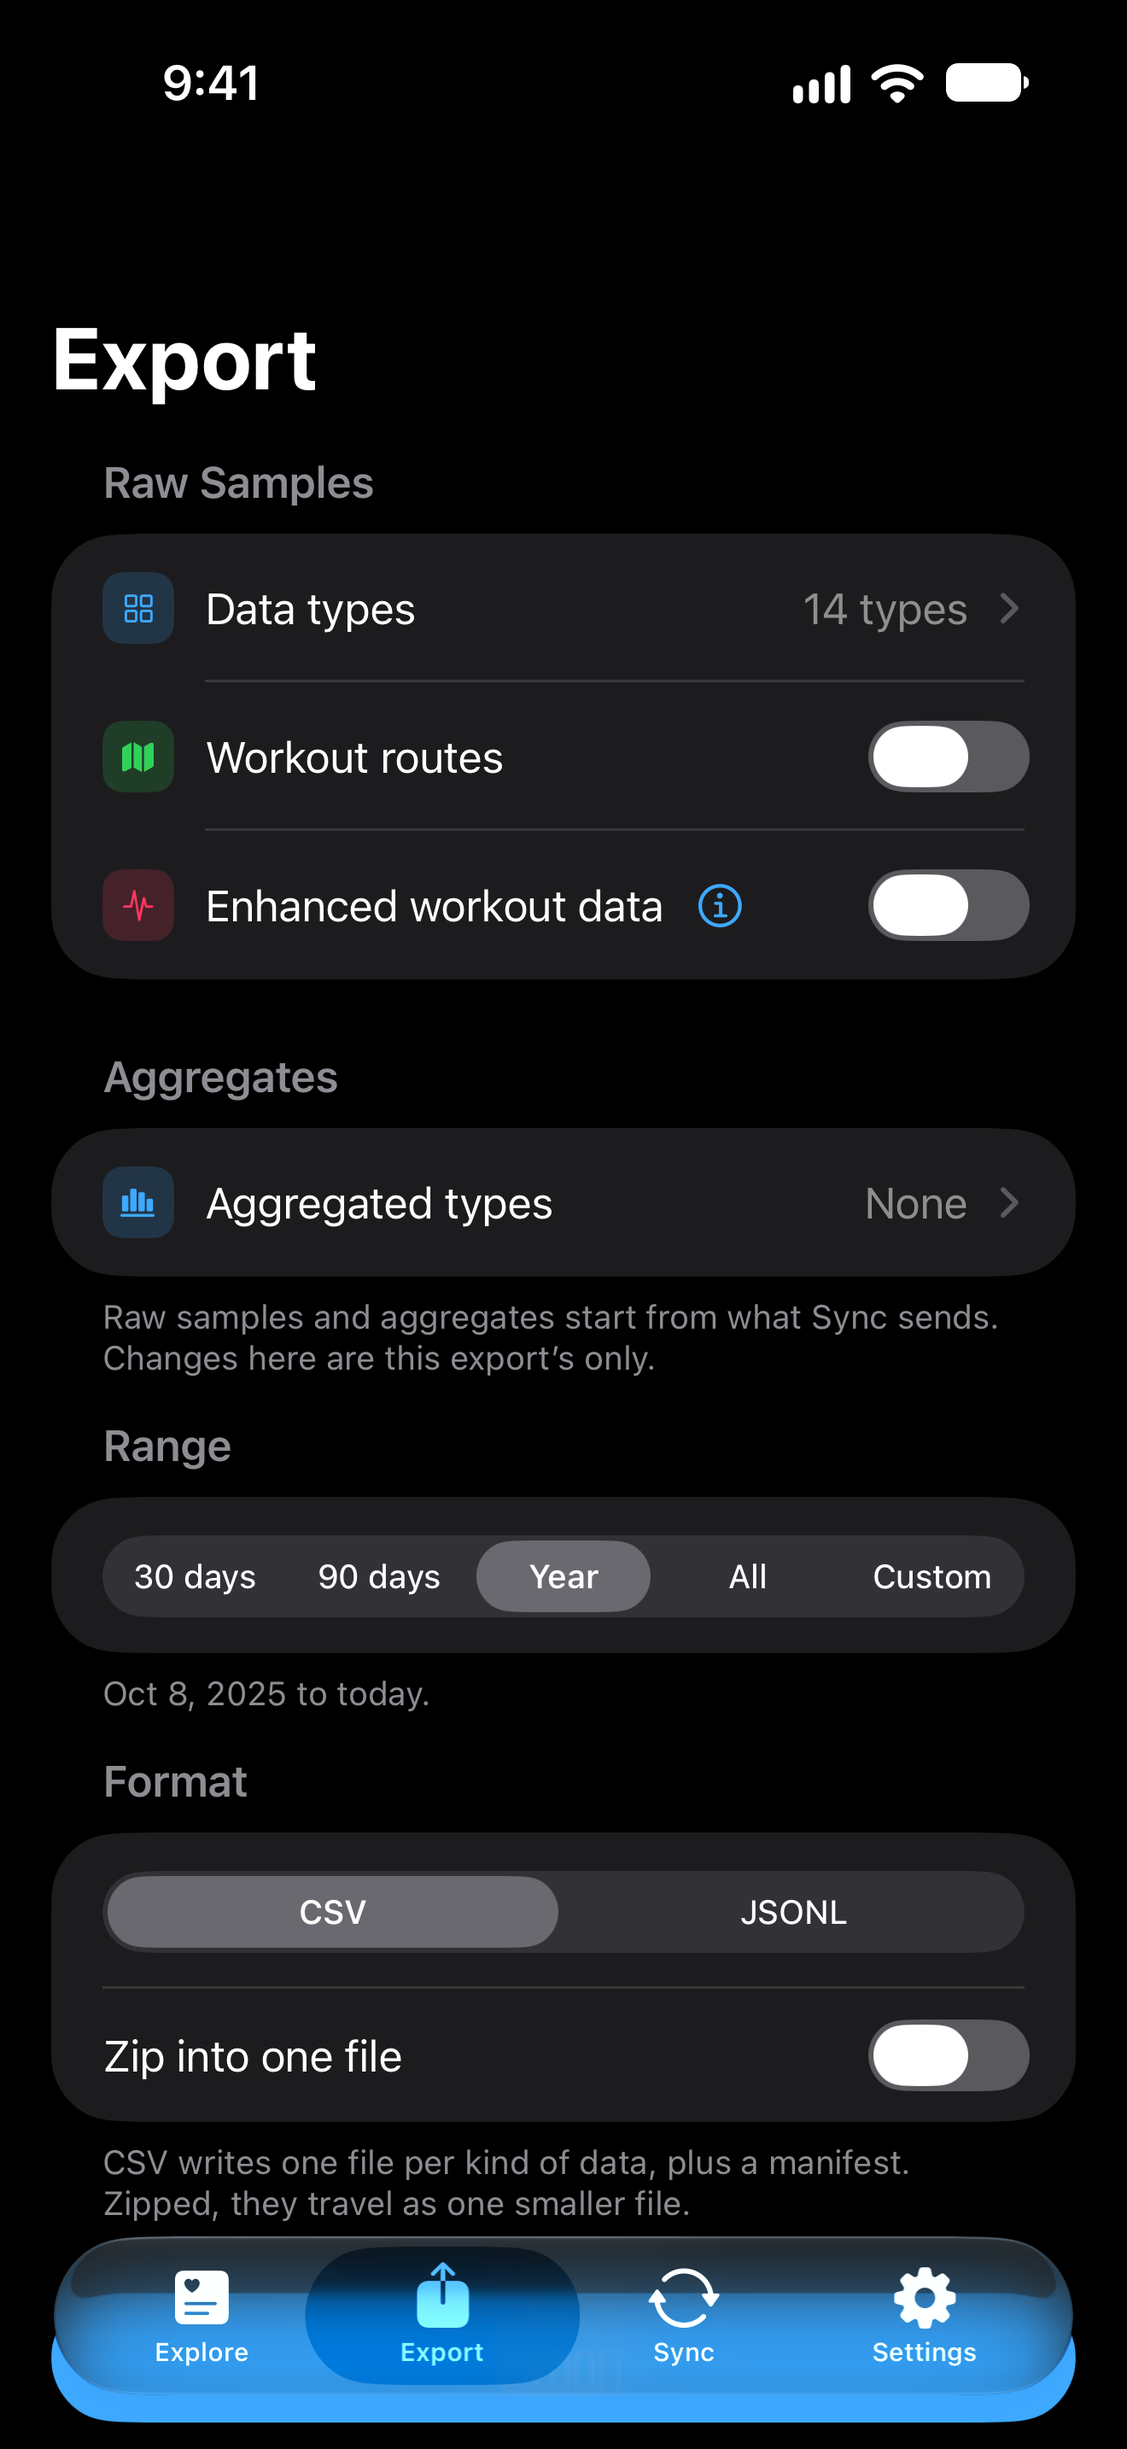
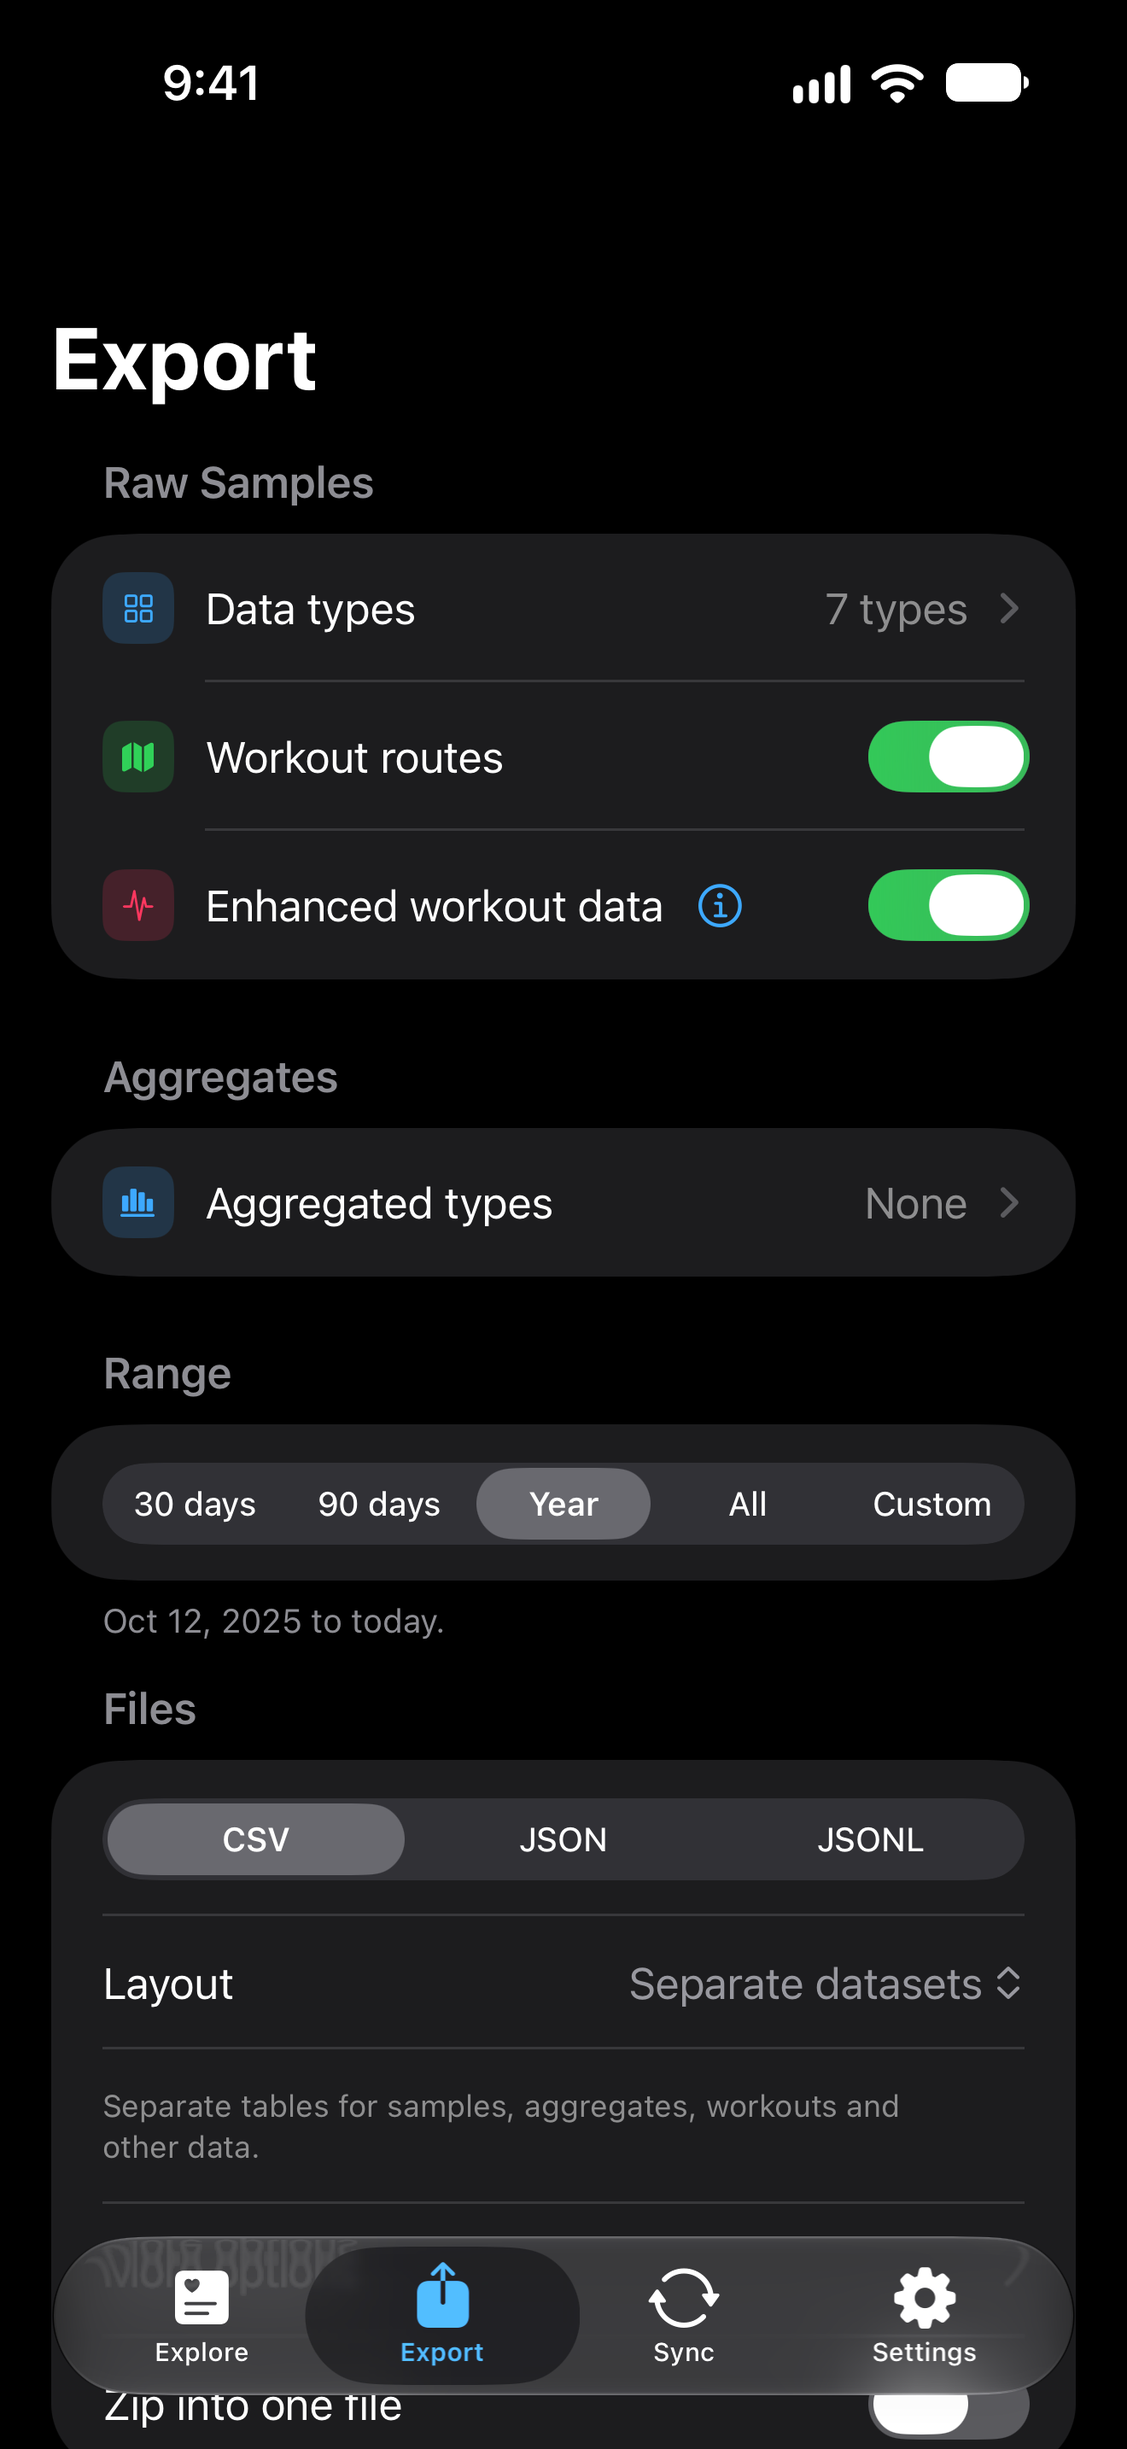
docs: align public messaging around self-managed health data
Lead GitHub with a self-managed database while retaining hosted accounts as an alternative. Reuse the current Export capture, document JSON and CSV layouts, and align AI, scope and privacy summaries.

Changed region(s): [[0.0311, 0.5275, 0.9629, 1.0], [0.7765, 0.2793, 0.9318, 0.4034]]

diff --git a/site/src/lib/docs.ts b/site/src/lib/docs.ts
@@ -86,7 +86,7 @@ export const DOCS: DocEntry[] = [
     title: "Bulk export",
     repoPath: "docs/export.md",
     description:
-      "The product API's streaming export endpoint, CSV for a spreadsheet or JSONL for a notebook, and the puls-export command-line client for it.",
+      "Export CSV, JSON or JSONL from the app without a database, with custom summaries and CSV layouts; or stream CSV or JSONL from the product API and CLI.",
     group: "Reference",
   },
   {
@@ -94,7 +94,7 @@ export const DOCS: DocEntry[] = [
     title: "Use it with AI",
     repoPath: "docs/ai.md",
     description:
-      "Connect any AI assistant that speaks MCP, such as Claude, ChatGPT, Cursor or Qwen: sign in on the PulsHealth database, or run the read-only MCP server on your own.",
+      "Connect compatible AI assistants to your self-managed database through the read-only MCP server, or sign in with a hosted PulsHealth account.",
     group: "Getting started",
   },
   {
@@ -199,6 +199,14 @@ export const GUIDES: DocGuide[] = [
     indexOnly: true,
   },
   {
+    title: "Self-hosting",
+    href: "/server/",
+    description:
+      "Run the open-source PulsHealth database on a machine you own: one script brings it up and prints the code that pairs the app.",
+    group: "Getting started",
+    label: "Set it up",
+  },
+  {
     title: "The PulsHealth database",
     href: SIGNUP_URL,
     description:
@@ -206,14 +214,6 @@ export const GUIDES: DocGuide[] = [
     group: "Getting started",
     label: "Get started",
     indexOnly: true,
-  },
-  {
-    title: "Self-hosting",
-    href: "/server/",
-    description:
-      "Run the open-source PulsHealth database on a machine you own: one script brings it up and prints the code that pairs the app.",
-    group: "Getting started",
-    label: "Set it up",
   },
 ];
 

diff --git a/site/src/lib/pages.ts b/site/src/lib/pages.ts
@@ -5,7 +5,7 @@ export const STATIC_PAGES: SearchItem[] = [
     id: 'page-home',
     type: 'page',
     title: 'Home',
-    description: 'The free iPhone app to explore, export and sync Apple Health to a database, hosted for you or self-hosted, and connect any AI agent over MCP. Open source, Apache-2.0',
+    description: 'Sync, export, and control Apple Health data. Explore the dashboard, export CSV and JSON, and connect compatible AI tools. Self-managed databases or hosted accounts. Free and open source.',
     href: '/',
     icon: 'Home',
   },

diff --git a/README.md b/README.md
@@ -1,30 +1,37 @@
 # PulsHealth
 
-Sync Apple Health to a backend you control, then use the data with your own
-tools — SQL, Grafana, notebooks, and AI assistants.
+**Sync, export, and control your Apple Health data.**
 
-PulsHealth is an iOS app, and the Swift package underneath it, that reads
-HealthKit and streams every sample — a full historical backfill first, then
-near-real-time updates — as gzip NDJSON to an HTTP endpoint you configure.
-Nothing is sent anywhere else. This repository also holds the sync protocol's
-specification and a reference backend that runs with one `docker compose up`:
-PostgreSQL 17 + TimescaleDB, a Go ingest server, a read-only product API with
-an OpenAPI document, Grafana dashboards, a web viewer, and an MCP server so
-Claude, Cursor and other AI assistants can answer questions from your data.
+Build a personal health database you manage. Bring your history, keep new data
+flowing with automatic background sync, and use it with dashboards, SQL,
+notebooks, and your own AI tools. Choose individual readings or custom summaries,
+from hourly averages to daily totals.
 
-**[PulsHealth is on the App Store](https://apps.apple.com/us/app/pulshealth/id6757657354)** —
-free, iPhone and iPad. Sync it to the **PulsHealth database**, hosted for you at
-[app.pulshealth.com](https://app.pulshealth.com/signup), or run this backend
-yourself; see [Quickstart](#quickstart).
+**[Get the free iPhone and iPad app](https://apps.apple.com/us/app/pulshealth/id6757657354)**
+· **[Set up your database](#quickstart)**
+· **[Try the dashboard](https://app.pulshealth.com/demo)**
 
-**No server? Explore and export.** The **Explore** tab shows what Apple Health
-holds for every type: how many samples, since when, from which apps and
-devices, the spread of values against the type's typical range, a chart over
-time, and what the type measures. The **Export** tab writes the types and
-series you choose straight from HealthKit to CSV or JSONL (the sync protocol
-itself, replayable into a server later), for a preset range or dates of your
-own, and hands the files to the share sheet. Nothing is uploaded. Formats and
-columns are in [`docs/export.md`](docs/export.md#on-device-export-no-server).
+PulsHealth is free and open source. The reference backend runs on your own
+Docker host: PostgreSQL 17 + TimescaleDB, a Go ingest server, a read-only product
+API, Grafana dashboards, a web viewer, and an MCP server. The open
+[Puls Sync Protocol v1](docs/protocol/README.md) also lets you connect a
+compatible receiver. PulsHealth offers
+[hosted accounts](https://app.pulshealth.com/signup) as an alternative.
+
+**No database needed to explore or export.** Explore shows what Apple Health
+holds, with charts, sources, and explanations for each type. Export lets you
+choose measurements, dates, and CSV, JSON, or JSONL. Keep raw readings or custom
+aggregations, choose a CSV layout, then save or share your files. Exploring
+stays on your phone; an ordinary export uploads nothing and needs no account.
+See [export formats and options](docs/export.md#on-device-export-no-server).
+
+<p align="center">
+  <a href="https://app.pulshealth.com/demo"><img src="docs/images/web/today.png" alt="PulsHealth web dashboard with activity rings, daily health metrics, trends, and recent workouts, shown with synthetic demo data" width="90%"></a>
+</p>
+
+Your self-managed database powers the dashboard and connected AI tools.
+[Try it with demo data](https://app.pulshealth.com/demo), or follow the
+[quickstart](#quickstart) to use your own records.
 
 > **The backend is pre-release (0.x).** The app ships from the App Store, but
 > standing up the server it syncs to expects someone comfortable with Docker.
@@ -44,7 +51,7 @@ columns are in [`docs/export.md`](docs/export.md#on-device-export-no-server).
 
 | Component | Path | What it is |
 |---|---|---|
-| **iOS app** | [`PulsHealth/`](PulsHealth/README.md) | SwiftUI app over the package, in four tabs: **Explore** (every HealthKit type by category, each with a page of analysis charts, an aggregate preview and the type's typical range), **Export** (raw types, aggregates, any date range, CSV or JSONL — no server needed), **Sync** (the database connection, backfill progress and ETA, what is sent — Raw Samples and Aggregates, each with its own picker — per-type status, the event log and background-activity telemetry) and **Settings** (user, sync tuning, privacy and data, diagnostics). |
+| **iOS app** | [`PulsHealth/`](PulsHealth/README.md) | SwiftUI app over the package, in four tabs: **Explore** (every HealthKit type by category, each with a page of analysis charts, an aggregate preview and the type's typical range), **Export** (raw types, aggregates, any date range, CSV, JSON or JSONL, flexible CSV layouts — no server needed), **Sync** (the database connection, backfill progress and ETA, what is sent — Raw Samples and Aggregates, each with its own picker — per-type status, the event log and background-activity telemetry) and **Settings** (user, sync tuning, privacy and data, diagnostics). |
 | **`PulsHealthSync`** | [`PulsHealthSync/`](PulsHealthSync/README.md) | Swift package (iOS 17+, Swift 6 strict concurrency, zero dependencies): anchored-query sync engine, on-device aggregates, activity rings, background scheduling, HTTP transport, NDJSON encoding, on-device export. Embeddable in other apps. |
 | **Reference server** | [`server/`](server/README.md) | Docker Compose stack: TimescaleDB, Go ingest API, Go product API (OpenAPI 3.1), Grafana with provisioned dashboards and alert rules. |
 | **Web viewer** | [`web/`](web/README.md) | Next.js viewer (activity rings, trends, workouts, catalog) reading Postgres directly. |
@@ -58,24 +65,23 @@ columns are in [`docs/export.md`](docs/export.md#on-device-export-no-server).
   <img src="docs/images/app/unlock.png" alt="First run: Unlock your Health Data, with Explore, Export and Sync" width="200">
   <img src="docs/images/app/explore.png" alt="Explore tab: Apple Health types by category, each with its sample count over the past year" width="200">
   <img src="docs/images/app/type-page.png" alt="Heart Rate's Type page: description, analysis, sample counts, sources and the start of the value histogram" width="200">
-  <img src="docs/images/app/export.png" alt="Export tab: the builder with raw samples, aggregated types, a date range, CSV or JSONL and a zip option" width="200">
+  <img src="docs/images/app/export.png" alt="Export tab: the builder with raw samples, aggregated types, a date range, CSV, JSON or JSONL, CSV layouts and a zip option" width="200">
 </p>
 
-The iOS app 2.0: the first run, Explore, a Type page and the Export builder,
-taken in the simulator with the app's built-in demo data (nobody's real health
-data).
+The app: the first run, Explore, a Type page and the updated 2.1 Export
+builder. These simulator captures use synthetic demo data, not real health
+records.
 
 <p align="center">
-  <img src="docs/images/web/today.png" alt="Web viewer, Today: activity rings with Move, Exercise and Stand, highlight cards with sparklines for steps, active energy, resting heart rate, sleep, HRV, distance, VO2 max and body weight, and recent workouts" width="49%">
-  <img src="docs/images/web/workouts.png" alt="Web viewer, Workouts: session, time, energy and distance totals over a list of logged workouts with duration, calories and distance" width="49%">
+  <img src="docs/images/web/workouts.png" alt="Web viewer, Workouts: session, time, energy and distance totals over a list of logged workouts with duration, calories and distance" width="80%">
 </p>
 
 <p align="center">
   <img src="docs/images/server/grafana-health.png" alt="Grafana PulsHealth dashboard: heart rate with workout annotations, daily steps, a device aggregate series, the metric explorer and sleep stages over the last seven days" width="80%">
 </p>
 
-The self-hosted web viewer (`web/`, Today and Workouts) and the provisioned
-Grafana dashboard (`server/grafana/`), both filled with generated demo data:
+The self-hosted web viewer (`web/`, the dashboard above and Workouts) and the
+provisioned Grafana dashboard (`server/grafana/`), both filled with generated demo data:
 the viewer's own local demo mode and a throwaway stack seeded through ingest
 with synthetic batches. No screenshot in this repository shows anyone's real
 health data.
@@ -99,11 +105,22 @@ avoid iPhone + Watch double counting) are in
 └────────────────────────────────────┘      └─────────────────────────────────┘
 ```
 
-The app only ever talks to the URL you enter. Any HTTP server that accepts
-the batch format can stand in for the reference stack — see
+Regular sync uploads only to the database you configure. Account sign-in and
+one-time Data Requests are separate flows; a request sends an export only
+after you review its destination and choose to send it. Any HTTP server that
+accepts the batch format can stand in for the reference stack — see
 [Bring your own backend](#bring-your-own-backend).
 
 ## Quickstart
+
+Choose where to start:
+
+- **Self-managed database:** follow the server setup below, then pair the app.
+  You run the database, dashboard, and AI connection.
+- **Explore or export:** install the app and grant Health access. Explore and
+  Export work without an account or database.
+- **Hosted account:** [create a PulsHealth account](https://app.pulshealth.com/signup),
+  then sign in under **Sync → Database** in the app.
 
 ### Server
 
@@ -253,6 +270,10 @@ Remote clients connect to the Compose `mcp` service over HTTPS with
 `PULS_MCP_TOKEN`. [`docs/ai.md`](docs/ai.md) has the config for every client,
 the remote-connector recipe, demo prompts, the security notes, and the
 ChatGPT route (the API's `/openapi.json` as a custom GPT Action).
+
+**Hosted accounts:** PulsHealth also runs the database and MCP connection for
+you. Sign in on **Sync → Database** in the app, then connect an assistant
+through your account. See [hosted AI setup](docs/ai.md#connect-an-ai-assistant-to-your-pulshealth-account).
 
 For a whole range as a *file* rather than an answer in a chat,
 `GET /v1/export` streams any dataset as CSV or JSONL and `tools/puls-export`
@@ -461,7 +482,7 @@ No. The app requests read access only, and its usage strings say so.
 The full list of design properties, and how to report a vulnerability, is in
 [`SECURITY.md`](SECURITY.md).
 
-- **Your data goes only to the database you choose.** Self-hosted, that is
+- **Regular sync goes only to the database you choose.** Self-hosted, that is
   your server and the developer never sees it; on the PulsHealth database it
   is held by the developer under your account (`docs/privacy-policy.md`). No
   analytics, no crash reporting either way.
@@ -524,7 +545,8 @@ contributor, and [`llms.txt`](llms.txt) indexes the documentation.
   requests, and questions from people implementing their own receiver.
 - [`SECURITY.md`](SECURITY.md) — private vulnerability reporting and scope.
 - [`docs/privacy-policy.md`](docs/privacy-policy.md) — what the app reads,
-  where it sends it (only your server), and what stays on the phone.
+  regular sync, hosted accounts, approved request destinations, and what stays
+  on the phone.
   [`docs/appstore/`](docs/appstore/README.md) holds the App Store listing copy,
   review notes, the recipe for the throwaway review backend, and the release
   record.

diff --git a/docs/open-source-plan.md b/docs/open-source-plan.md
@@ -199,22 +199,15 @@ and so are the ones decided against (its "Not planned").
 | App Review pushes back on the local-network ATS exception or on needing a server. | A review backend with credentials in the notes, and a plain description (`docs/appstore/`). |
 | The ingest attack surface is public. | `SECURITY.md`, auth-failure rate limiting, the scoped database role, per-device tokens. |
 
+PulsHealth also offers hosted accounts. The open-source stack remains available
+for a self-managed database, dashboard, and AI connection. Current hosted
+privacy and operating commitments are documented in
+[the privacy policy](privacy-policy.md) and
+[the hosted operations runbook](hosted-operations.md).
+
 ## 5. Out of scope
 
 - Android / Health Connect. The protocol is platform-neutral in shape, but
   the v1 type vocabulary is HealthKit identifiers.
-- A hosted PulsHealth service open to anyone without review. The
-  maintainer's instance takes access requests from anyone
-  (`WEB_SIGNUPS`, decided 2026-10-02) but creates nothing until the
-  maintainer approves each one, so it stays a personal install shared by
-  choice. Approving people the maintainer does not know makes them a holder
-  of strangers' health records: in the US the FTC Health Breach
-  Notification Rule likely applies (a breach must be notified), the App
-  Store privacy answer declares their data (changed to "Data Linked to You"
-  on 2026-10-02, `docs/appstore/listing.md`), and the instance owes them
-  deletion, which
-  it has (Delete my account, and purge on /admin). Password reset by email
-  and email verification are not built: a forgotten password is a new
-  invite, and approval is the verification.
 - Writing data back into HealthKit.
 - Native non-HTTP sinks in the app (see D3).

diff --git a/docs/ai.md b/docs/ai.md
@@ -17,6 +17,14 @@ under `/docs/` (the file on GitHub where there is none), so an assistant can
 follow them from either copy. [`AGENTS.md`](../AGENTS.md) is the companion
 for an assistant contributing to the code.
 
+## Choose your connection
+
+For a **self-managed database**, start with [connection options](#two-ways-to-connect):
+run the MCP binary locally or expose your Compose MCP service over HTTPS.
+The database powers your assistant; the iOS app does not connect directly to AI.
+
+PulsHealth also offers **hosted accounts**, with the connection steps below.
+
 ## Connect an AI assistant to your PulsHealth account
 
 If your iPhone syncs to the PulsHealth database (you signed in on

diff --git a/PulsHealth/README.md b/PulsHealth/README.md
@@ -5,6 +5,10 @@ package; this app is configuration, visibility, and lifecycle wiring. See
 [`PulsHealthSync/README.md`](../PulsHealthSync/README.md) for the engine and
 `CLAUDE.md` for the invariants.
 
+Sync, export, and control Apple Health data: explore on the phone, export CSV,
+JSON or JSONL without an account, and sync to a self-managed database or a
+compatible receiver. PulsHealth also offers hosted accounts.
+
 Published as
 [PulsHealth](https://apps.apple.com/us/app/pulshealth/id6757657354) on the App
 Store (free). The listing material and the record of what shipped are in
